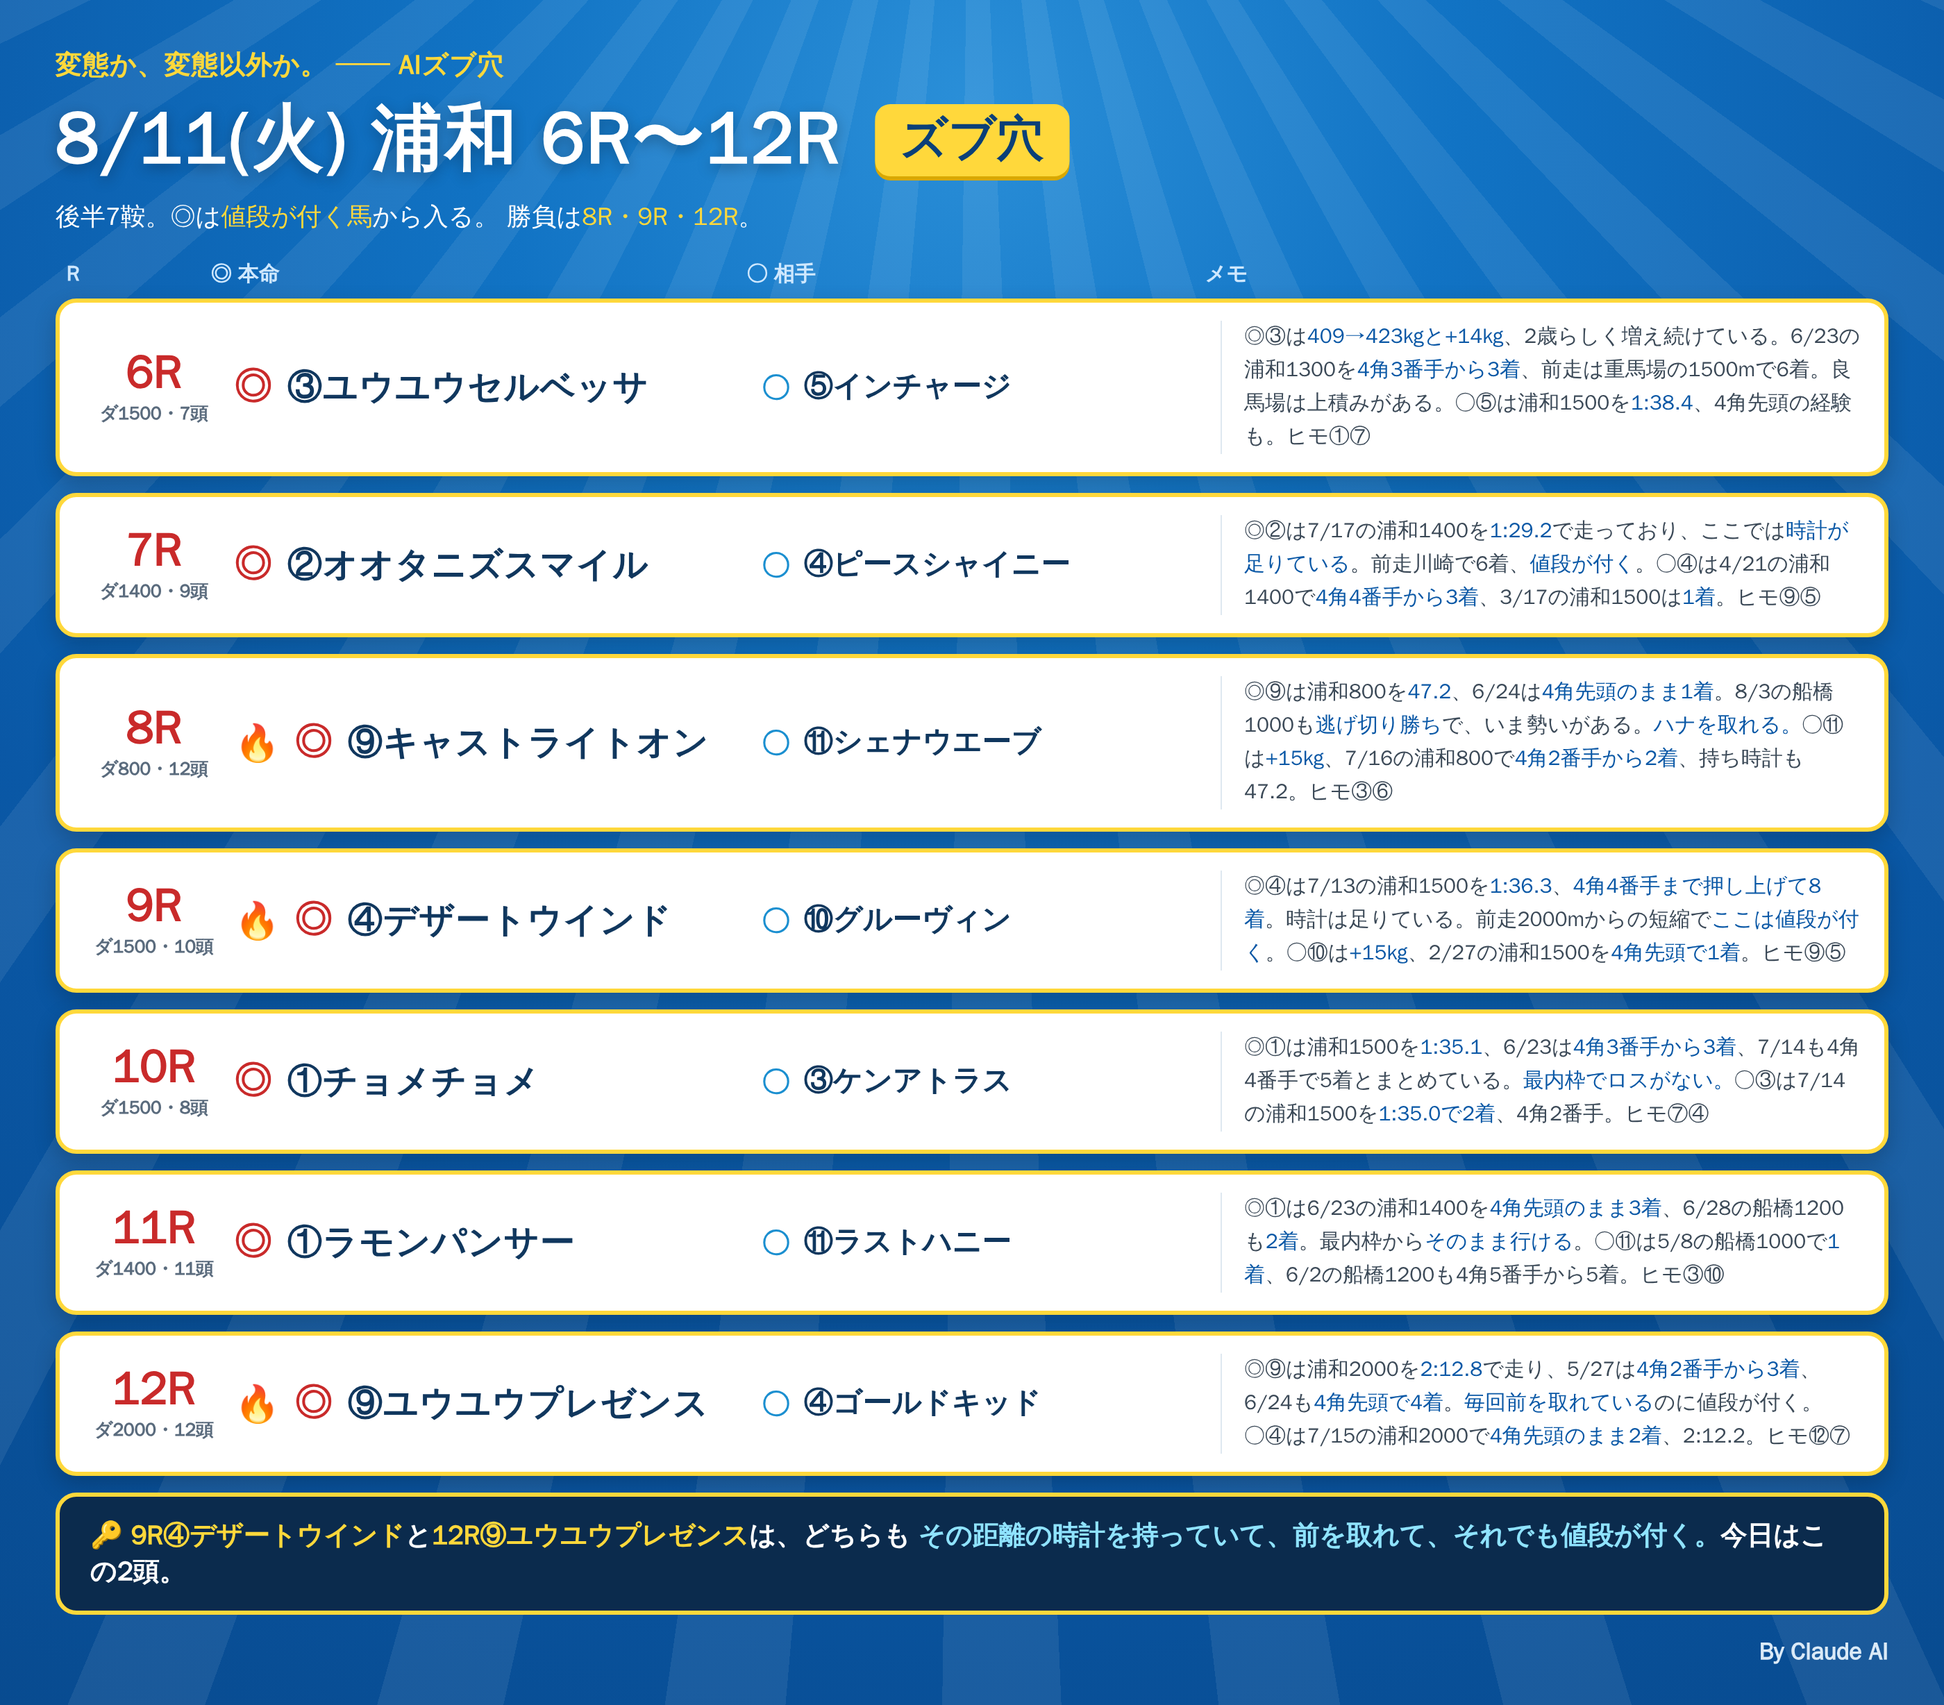
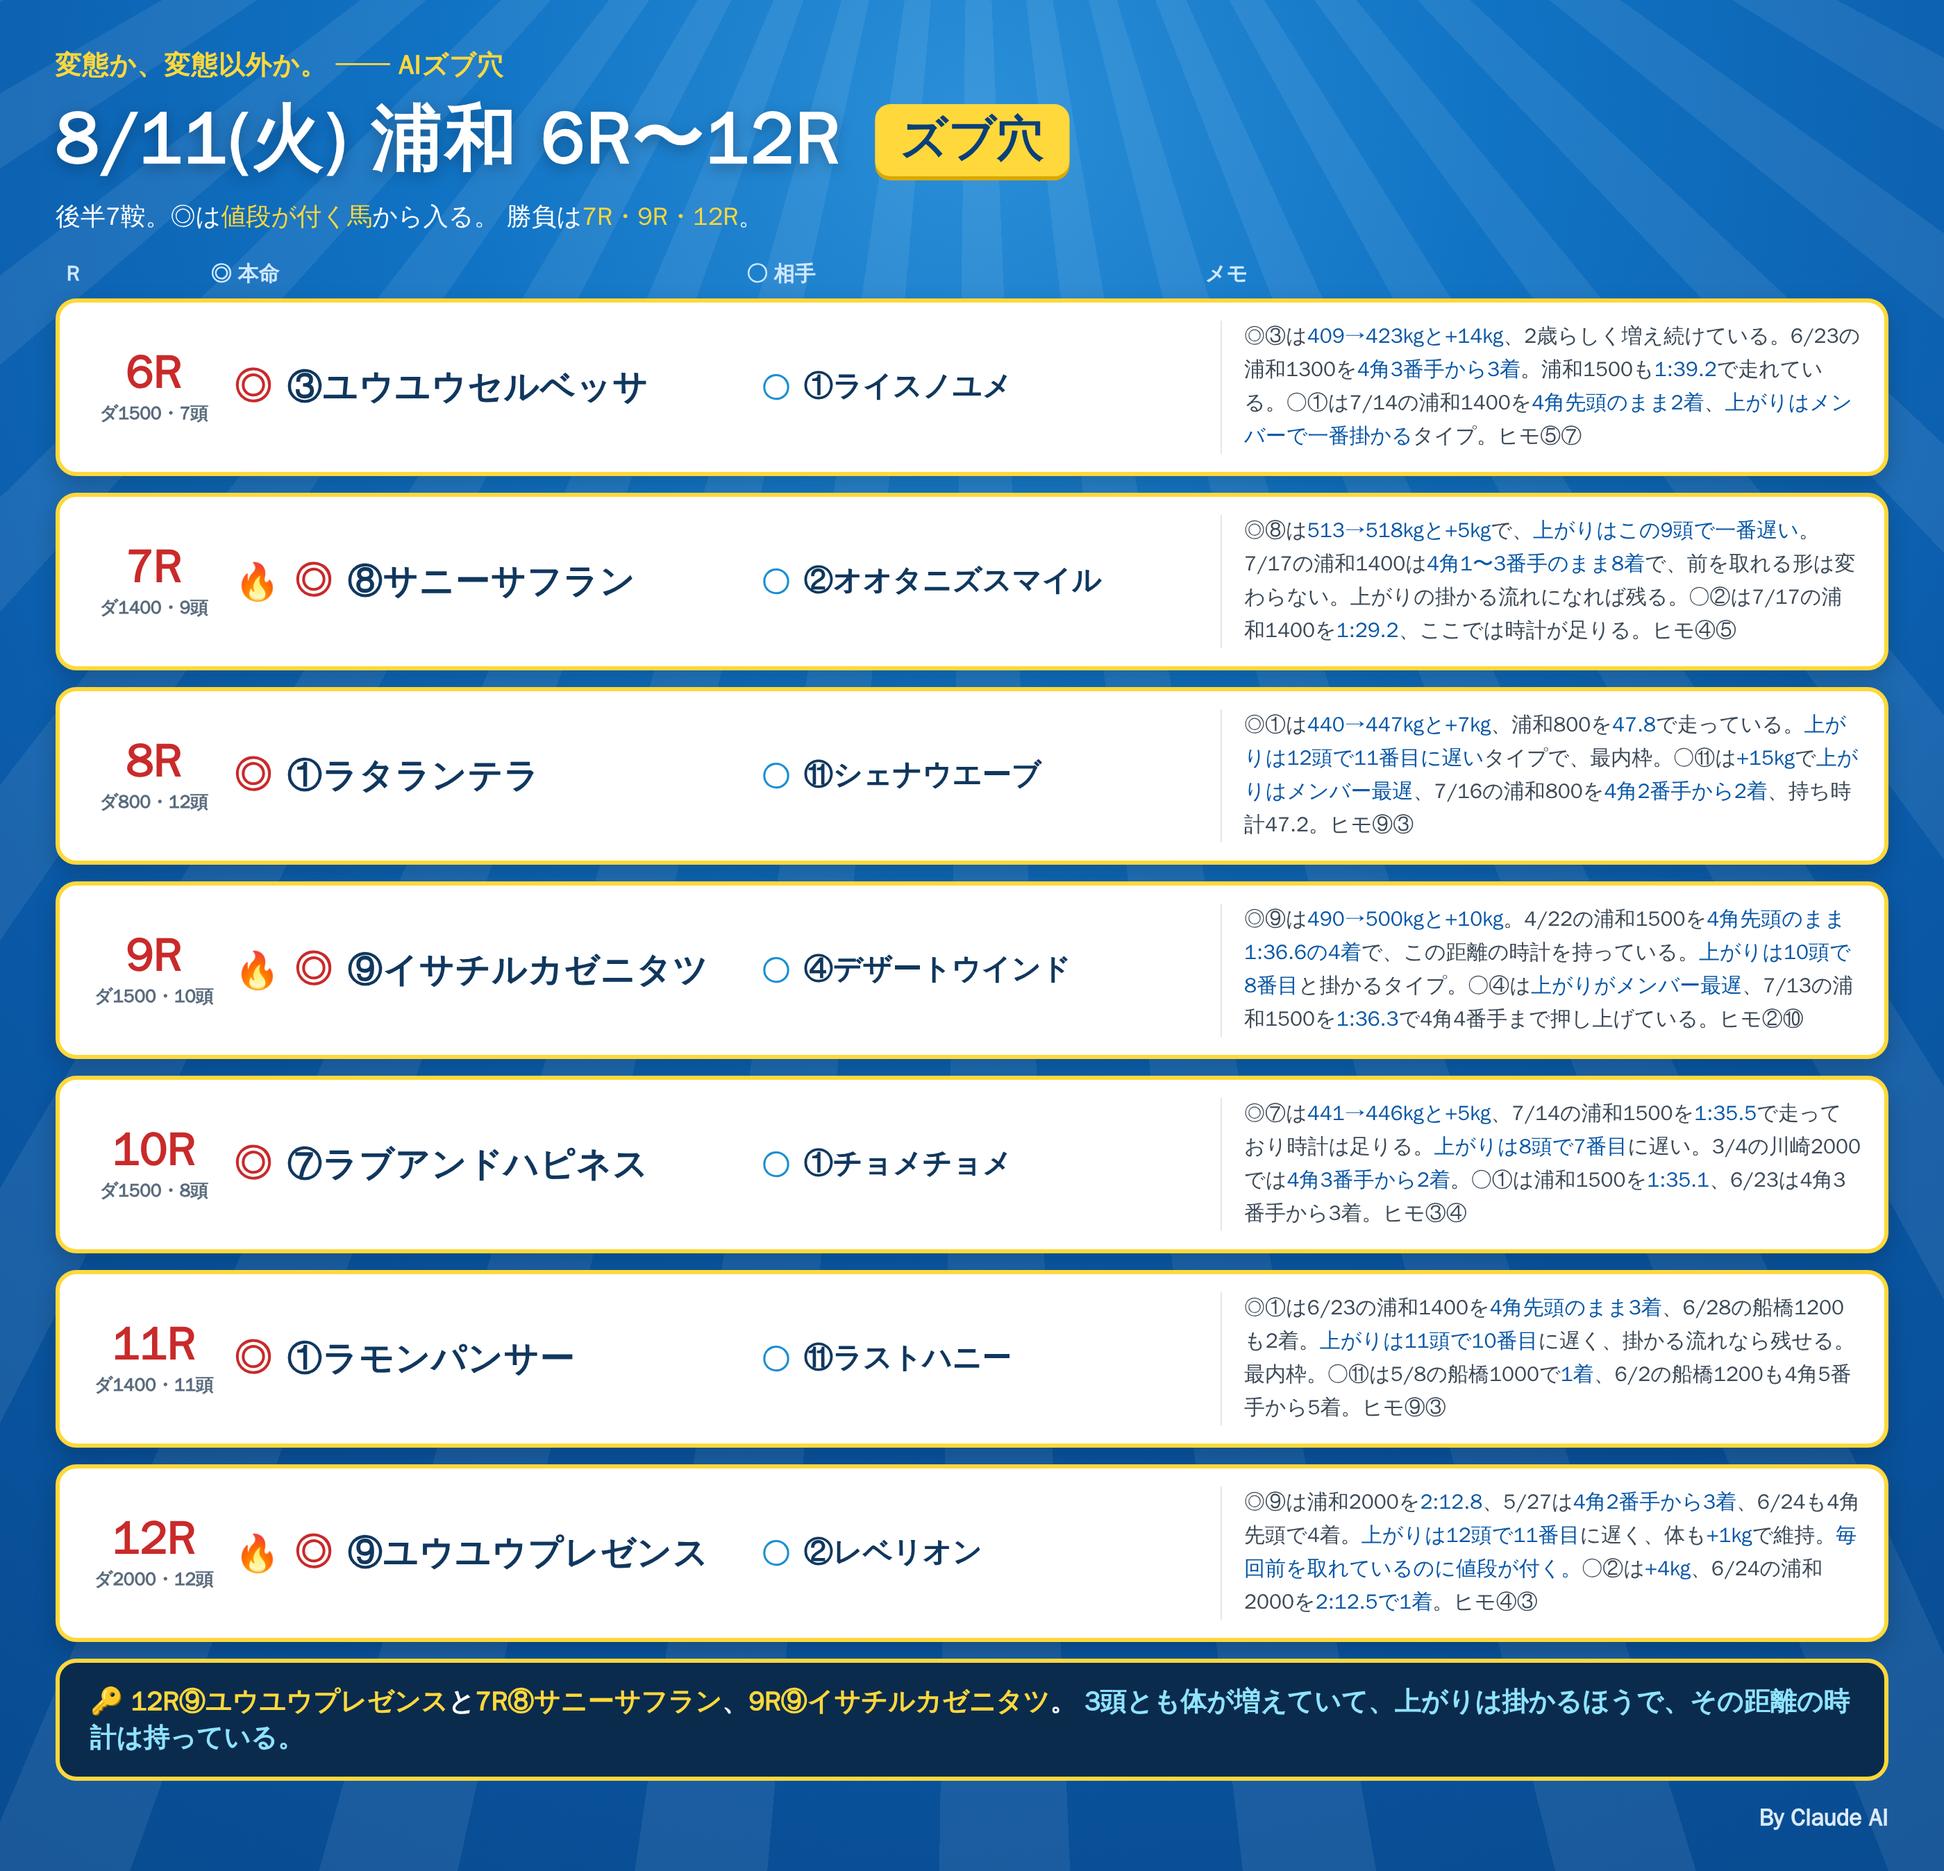
8/11 浦和 6R〜12Rを4条件で組み直し
前日は当日馬体重が未発表のため体重条件が判定できていなかった。前走の
馬体重を使って5走前比を算出するよう修正し、上がりの遅さと体重増を
反映して7R・8R・9R・10Rの印を入れ替えた。

Claude-Session: https://claude.ai/code/session_01RoHscZkr96FNaxQWvUqgEw

Changed region(s): [[0.0311, 0.0309, 0.9943, 0.9902], [0.435, 0.0309, 0.5593, 0.1238]]

diff --git a/notes/live/2026-08-11/urawa_6_12.html b/notes/live/2026-08-11/urawa_6_12.html
@@ -46,61 +46,61 @@
     <div class="bdg">ズブ穴</div>
   </div>
   <div class="lead">後半7鞍。◎は<span class="y">値段が付く馬</span>から入る。
-  勝負は<span class="y">8R・9R・12R</span>。</div>
+  勝負は<span class="y">7R・9R・12R</span>。</div>
 
   <div class="cols"><div class="cR">R</div><div class="cH">◎ 本命</div><div class="cA">○ 相手</div><div class="cM">メモ</div></div>
 
   <div class="row">
     <div class="rN"><div class="n">6R</div><div class="d">ダ1500・7頭</div></div>
     <div class="hm"><span class="mk">◎</span><span class="nm">③ユウユウセルベッサ</span></div>
-    <div class="at"><span class="mk2">○</span><span class="nm2">⑤インチャージ</span></div>
-    <div class="memo">◎③は<b>409→423kgと+14kg</b>、2歳らしく増え続けている。6/23の浦和1300を<b>4角3番手から3着</b>、前走は重馬場の1500mで6着。良馬場は上積みがある。○⑤は浦和1500を<b>1:38.4</b>、4角先頭の経験も。ヒモ①⑦</div>
+    <div class="at"><span class="mk2">○</span><span class="nm2">①ライスノユメ</span></div>
+    <div class="memo">◎③は<b>409→423kgと+14kg</b>、2歳らしく増え続けている。6/23の浦和1300を<b>4角3番手から3着</b>。浦和1500も<b>1:39.2</b>で走れている。○①は7/14の浦和1400を<b>4角先頭のまま2着</b>、<b>上がりはメンバーで一番掛かる</b>タイプ。ヒモ⑤⑦</div>
   </div>
 
   <div class="row">
     <div class="rN"><div class="n">7R</div><div class="d">ダ1400・9頭</div></div>
-    <div class="hm"><span class="mk">◎</span><span class="nm">②オオタニズスマイル</span></div>
-    <div class="at"><span class="mk2">○</span><span class="nm2">④ピースシャイニー</span></div>
-    <div class="memo">◎②は7/17の浦和1400を<b>1:29.2</b>で走っており、ここでは<b>時計が足りている</b>。前走川崎で6着、<b>値段が付く</b>。○④は4/21の浦和1400で<b>4角4番手から3着</b>、3/17の浦和1500は<b>1着</b>。ヒモ⑨⑤</div>
+    <div class="hm"><span class="fire">🔥</span><span class="mk">◎</span><span class="nm">⑧サニーサフラン</span></div>
+    <div class="at"><span class="mk2">○</span><span class="nm2">②オオタニズスマイル</span></div>
+    <div class="memo">◎⑧は<b>513→518kgと+5kg</b>で、<b>上がりはこの9頭で一番遅い</b>。7/17の浦和1400は<b>4角1〜3番手のまま8着</b>で、前を取れる形は変わらない。上がりの掛かる流れになれば残る。○②は7/17の浦和1400を<b>1:29.2</b>、ここでは時計が足りる。ヒモ④⑤</div>
   </div>
 
   <div class="row">
     <div class="rN"><div class="n">8R</div><div class="d">ダ800・12頭</div></div>
-    <div class="hm"><span class="fire">🔥</span><span class="mk">◎</span><span class="nm">⑨キャストライトオン</span></div>
+    <div class="hm"><span class="mk">◎</span><span class="nm">①ラタランテラ</span></div>
     <div class="at"><span class="mk2">○</span><span class="nm2">⑪シェナウエーブ</span></div>
-    <div class="memo">◎⑨は浦和800を<b>47.2</b>、6/24は<b>4角先頭のまま1着</b>。8/3の船橋1000も<b>逃げ切り勝ち</b>で、いま勢いがある。<b>ハナを取れる。</b>○⑪は<b>+15kg</b>、7/16の浦和800で<b>4角2番手から2着</b>、持ち時計も47.2。ヒモ③⑥</div>
+    <div class="memo">◎①は<b>440→447kgと+7kg</b>、浦和800を<b>47.8</b>で走っている。<b>上がりは12頭で11番目に遅い</b>タイプで、最内枠。○⑪は<b>+15kg</b>で<b>上がりはメンバー最遅</b>、7/16の浦和800を<b>4角2番手から2着</b>、持ち時計47.2。ヒモ⑨③</div>
   </div>
 
   <div class="row">
     <div class="rN"><div class="n">9R</div><div class="d">ダ1500・10頭</div></div>
-    <div class="hm"><span class="fire">🔥</span><span class="mk">◎</span><span class="nm">④デザートウインド</span></div>
-    <div class="at"><span class="mk2">○</span><span class="nm2">⑩グルーヴィン</span></div>
-    <div class="memo">◎④は7/13の浦和1500を<b>1:36.3</b>、<b>4角4番手まで押し上げて8着</b>。時計は足りている。前走2000mからの短縮で<b>ここは値段が付く</b>。○⑩は<b>+15kg</b>、2/27の浦和1500を<b>4角先頭で1着</b>。ヒモ⑨⑤</div>
+    <div class="hm"><span class="fire">🔥</span><span class="mk">◎</span><span class="nm">⑨イサチルカゼニタツ</span></div>
+    <div class="at"><span class="mk2">○</span><span class="nm2">④デザートウインド</span></div>
+    <div class="memo">◎⑨は<b>490→500kgと+10kg</b>。4/22の浦和1500を<b>4角先頭のまま1:36.6の4着</b>で、この距離の時計を持っている。<b>上がりは10頭で8番目</b>と掛かるタイプ。○④は<b>上がりがメンバー最遅</b>、7/13の浦和1500を<b>1:36.3</b>で4角4番手まで押し上げている。ヒモ②⑩</div>
   </div>
 
   <div class="row">
     <div class="rN"><div class="n">10R</div><div class="d">ダ1500・8頭</div></div>
-    <div class="hm"><span class="mk">◎</span><span class="nm">①チョメチョメ</span></div>
-    <div class="at"><span class="mk2">○</span><span class="nm2">③ケンアトラス</span></div>
-    <div class="memo">◎①は浦和1500を<b>1:35.1</b>、6/23は<b>4角3番手から3着</b>、7/14も4角4番手で5着とまとめている。<b>最内枠でロスがない。</b>○③は7/14の浦和1500を<b>1:35.0で2着</b>、4角2番手。ヒモ⑦④</div>
+    <div class="hm"><span class="mk">◎</span><span class="nm">⑦ラブアンドハピネス</span></div>
+    <div class="at"><span class="mk2">○</span><span class="nm2">①チョメチョメ</span></div>
+    <div class="memo">◎⑦は<b>441→446kgと+5kg</b>、7/14の浦和1500を<b>1:35.5</b>で走っており時計は足りる。<b>上がりは8頭で7番目</b>に遅い。3/4の川崎2000では<b>4角3番手から2着</b>。○①は浦和1500を<b>1:35.1</b>、6/23は4角3番手から3着。ヒモ③④</div>
   </div>
 
   <div class="row">
     <div class="rN"><div class="n">11R</div><div class="d">ダ1400・11頭</div></div>
     <div class="hm"><span class="mk">◎</span><span class="nm">①ラモンパンサー</span></div>
     <div class="at"><span class="mk2">○</span><span class="nm2">⑪ラストハニー</span></div>
-    <div class="memo">◎①は6/23の浦和1400を<b>4角先頭のまま3着</b>、6/28の船橋1200も<b>2着</b>。最内枠から<b>そのまま行ける</b>。○⑪は5/8の船橋1000で<b>1着</b>、6/2の船橋1200も4角5番手から5着。ヒモ③⑩</div>
+    <div class="memo">◎①は6/23の浦和1400を<b>4角先頭のまま3着</b>、6/28の船橋1200も2着。<b>上がりは11頭で10番目</b>に遅く、掛かる流れなら残せる。最内枠。○⑪は5/8の船橋1000で<b>1着</b>、6/2の船橋1200も4角5番手から5着。ヒモ⑨③</div>
   </div>
 
   <div class="row">
     <div class="rN"><div class="n">12R</div><div class="d">ダ2000・12頭</div></div>
     <div class="hm"><span class="fire">🔥</span><span class="mk">◎</span><span class="nm">⑨ユウユウプレゼンス</span></div>
-    <div class="at"><span class="mk2">○</span><span class="nm2">④ゴールドキッド</span></div>
-    <div class="memo">◎⑨は浦和2000を<b>2:12.8</b>で走り、5/27は<b>4角2番手から3着</b>、6/24も<b>4角先頭で4着</b>。<b>毎回前を取れている</b>のに値段が付く。○④は7/15の浦和2000で<b>4角先頭のまま2着</b>、2:12.2。ヒモ⑫⑦</div>
+    <div class="at"><span class="mk2">○</span><span class="nm2">②レベリオン</span></div>
+    <div class="memo">◎⑨は浦和2000を<b>2:12.8</b>、5/27は<b>4角2番手から3着</b>、6/24も4角先頭で4着。<b>上がりは12頭で11番目</b>に遅く、体も<b>+1kg</b>で維持。<b>毎回前を取れているのに値段が付く。</b>○②は<b>+4kg</b>、6/24の浦和2000を<b>2:12.5で1着</b>。ヒモ④③</div>
   </div>
 
-  <div class="foot">🔑 <span class="y">9R④デザートウインド</span>と<span class="y">12R⑨ユウユウプレゼンス</span>は、どちらも
-  <span class="c">その距離の時計を持っていて、前を取れて、それでも値段が付く。</span>今日はこの2頭。</div>
+  <div class="foot">🔑 <span class="y">12R⑨ユウユウプレゼンス</span>と<span class="y">7R⑧サニーサフラン</span>、<span class="y">9R⑨イサチルカゼニタツ</span>。
+  <span class="c">3頭とも体が増えていて、上がりは掛かるほうで、その距離の時計は持っている。</span></div>
   <div class="sig">By Claude AI</div>
 </div></div>
 </body></html>
